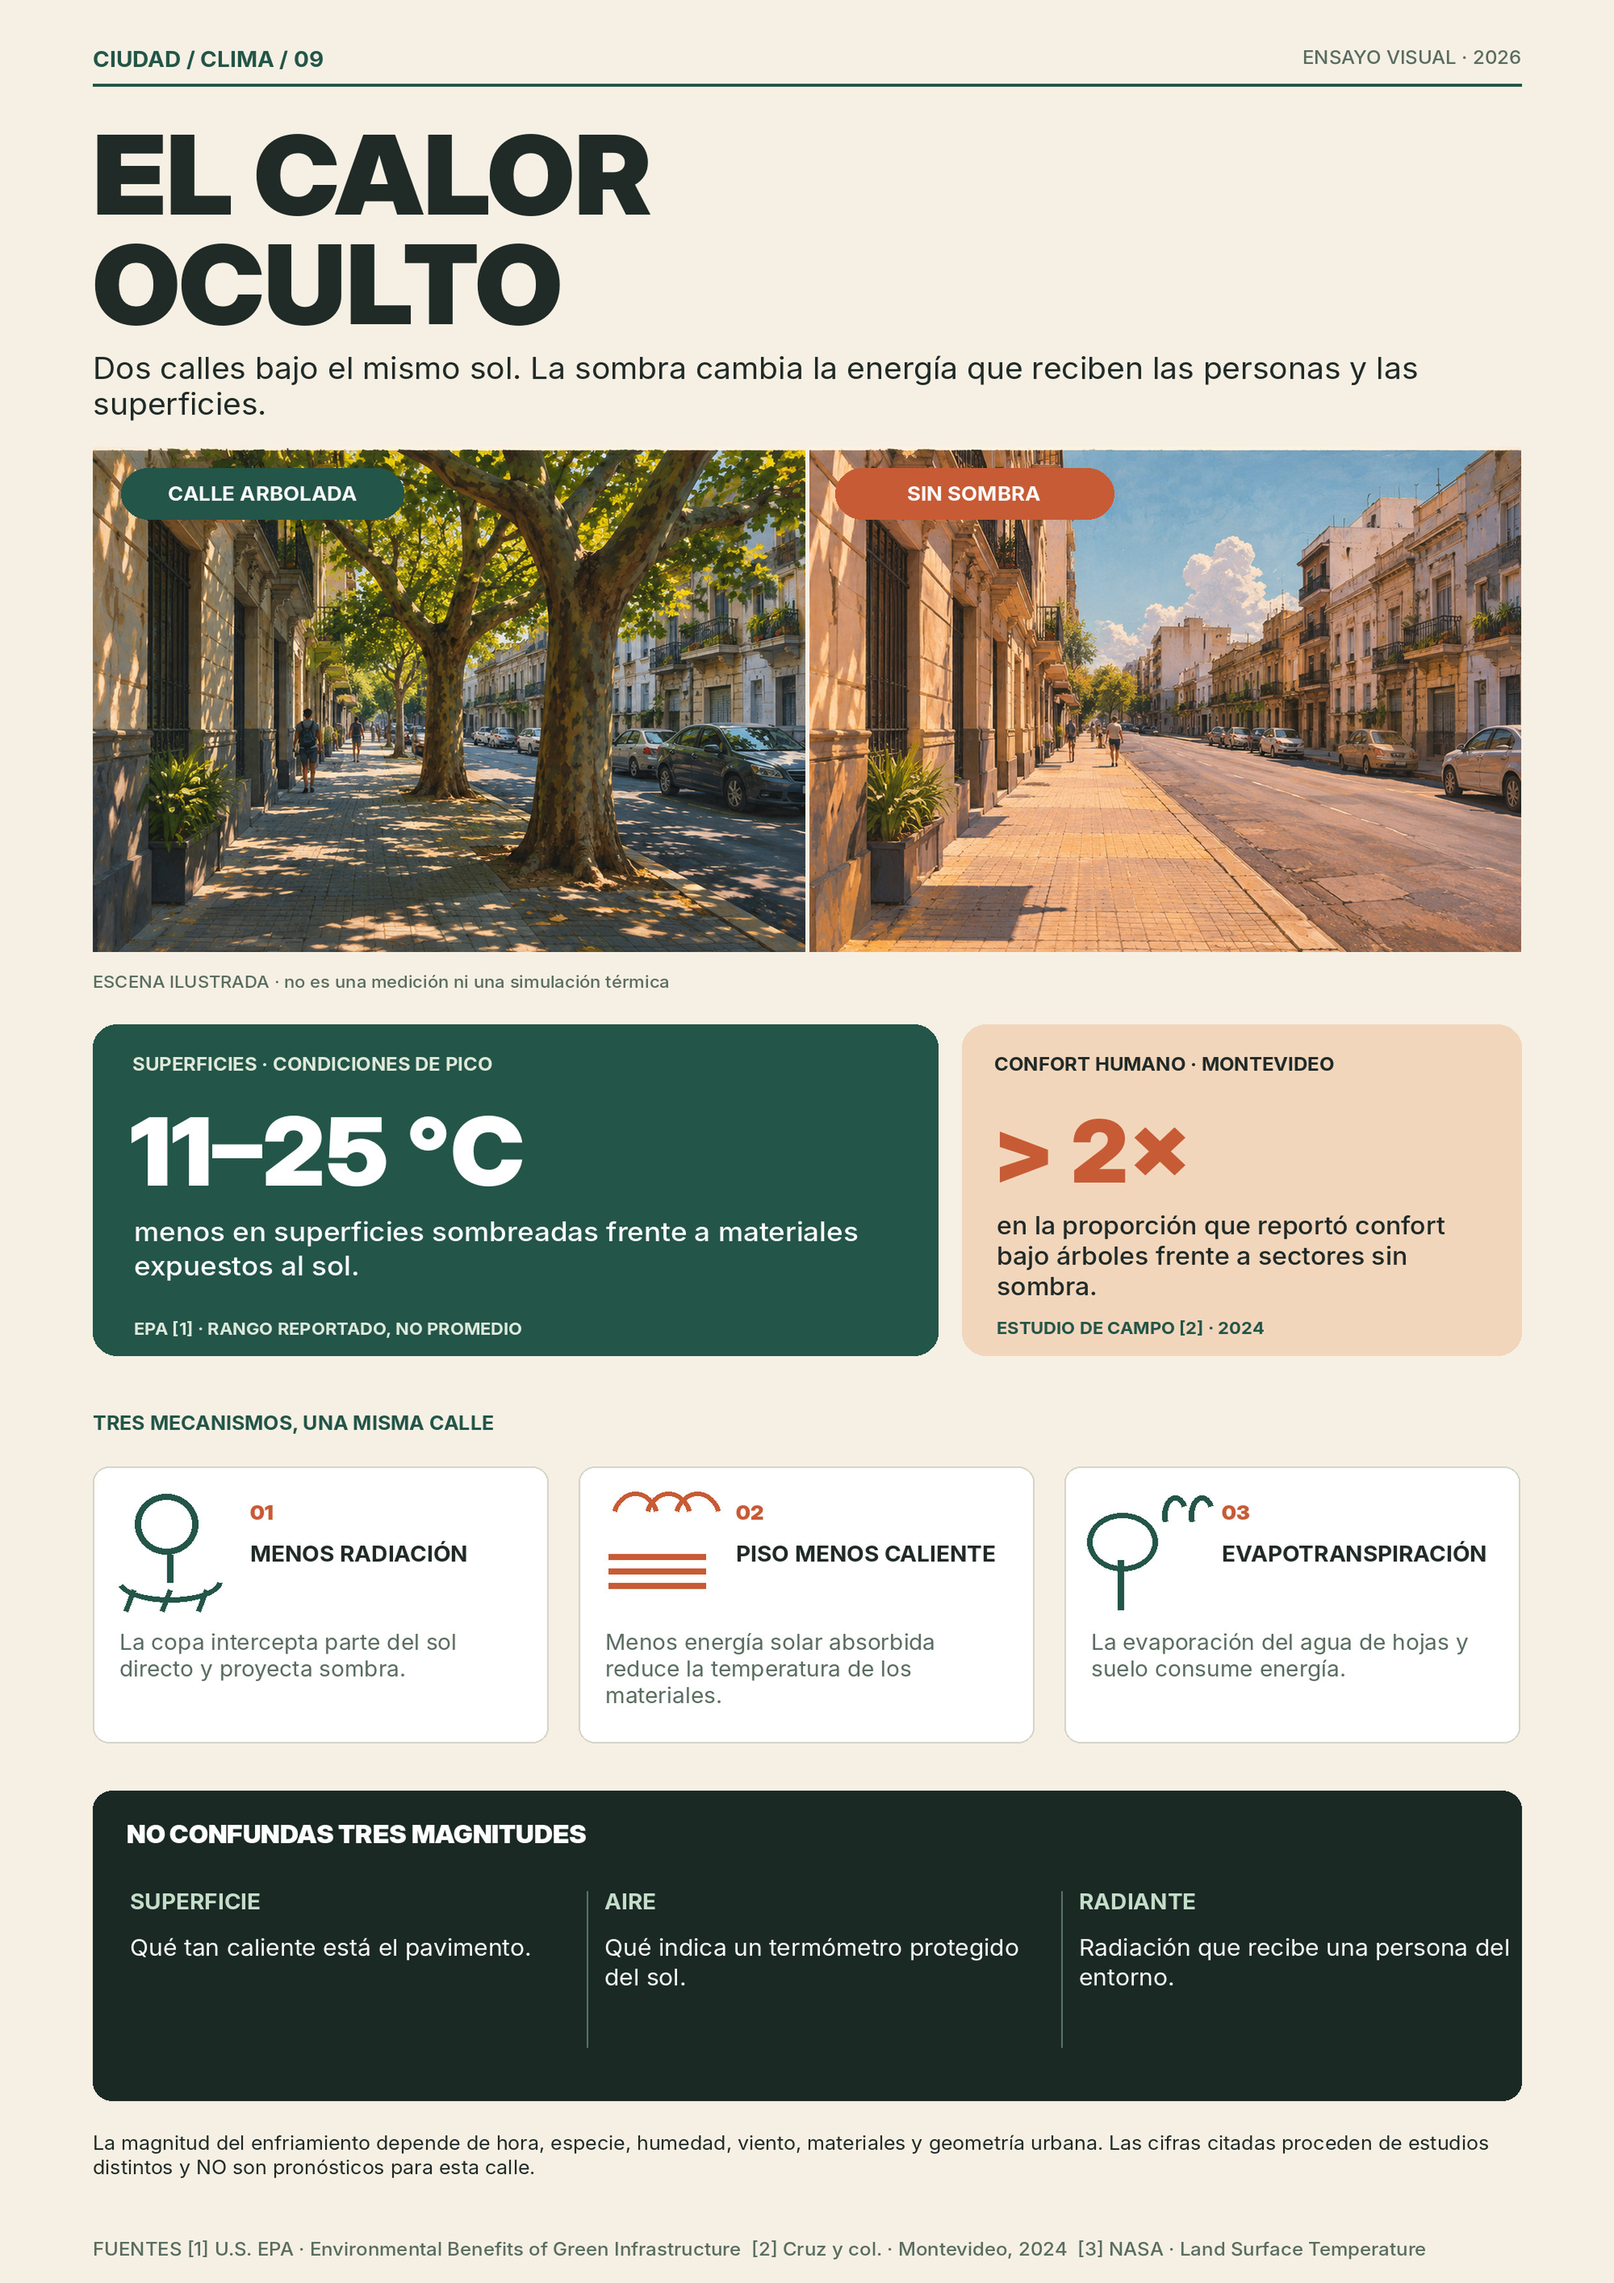
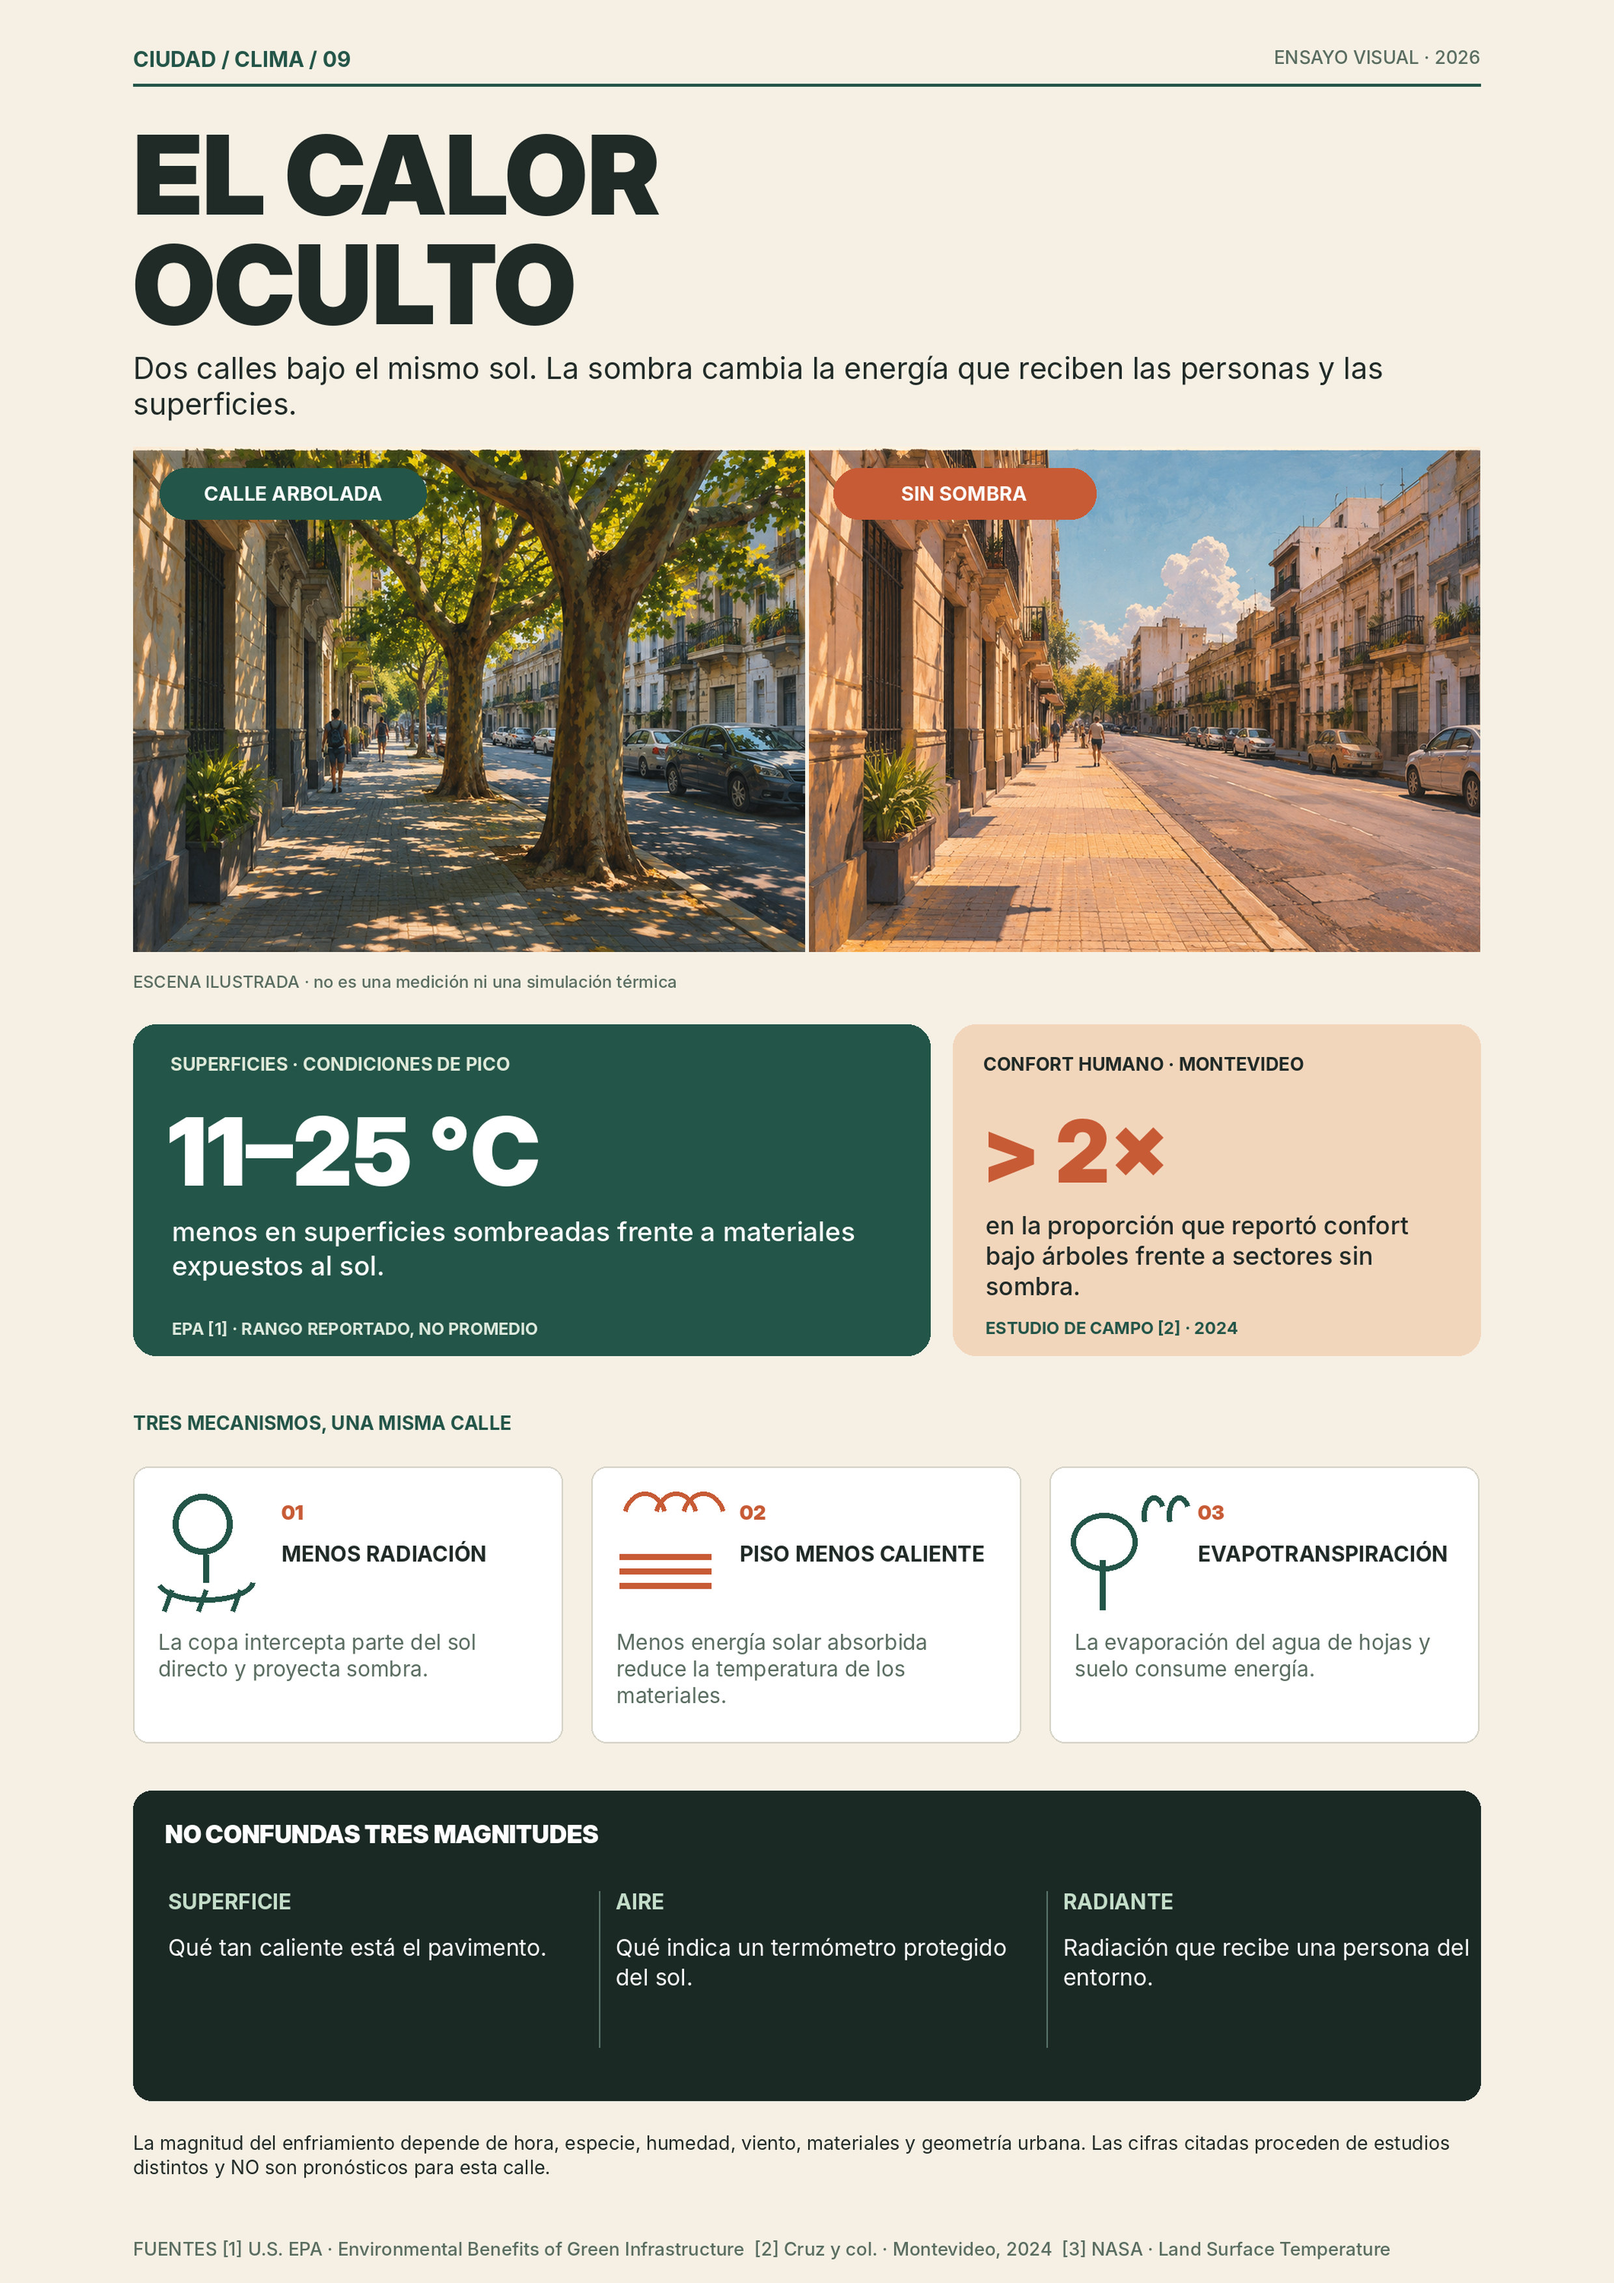
fix(images w002/09): preserve A4 aspect ratio and tag 300 dpi

diff --git a/prometeo/launch/20261122/next/images/works/09-el-calor-oculto/render_heat.py b/prometeo/launch/20261122/next/images/works/09-el-calor-oculto/render_heat.py
@@ -138,7 +138,11 @@ def make_print(art,out):
     text(d,(m,2940),'FUENTES [1] U.S. EPA · Environmental Benefits of Green Infrastructure  [2] Cruz y col. · Montevideo, 2024  [3] NASA · Land Surface Temperature',24,MUTED,'med')
     printpath=out/'el_calor_oculto_A4_300dpi.png'
     # A4 at 300ppi uses 2480x3508. Resample exactly; no misleading DPI claim.
-    target=im.resize((2480,3508),Image.Resampling.LANCZOS)
+    # Preserve geometry: center-fit the portrait in an exact A4 canvas, with paper-colored side gutters.
+    sheet=(2480,3508)
+    scaled=im.resize((round(im.width*sheet[1]/im.height),sheet[1]),Image.Resampling.LANCZOS)
+    target=Image.new('RGB',sheet,PAPER)
+    target.paste(scaled,((sheet[0]-scaled.width)//2,0))
     target.save(printpath,dpi=(300,300),optimize=True)
     im.save(out/'el_calor_oculto_master.png',optimize=True)
     return printpath
